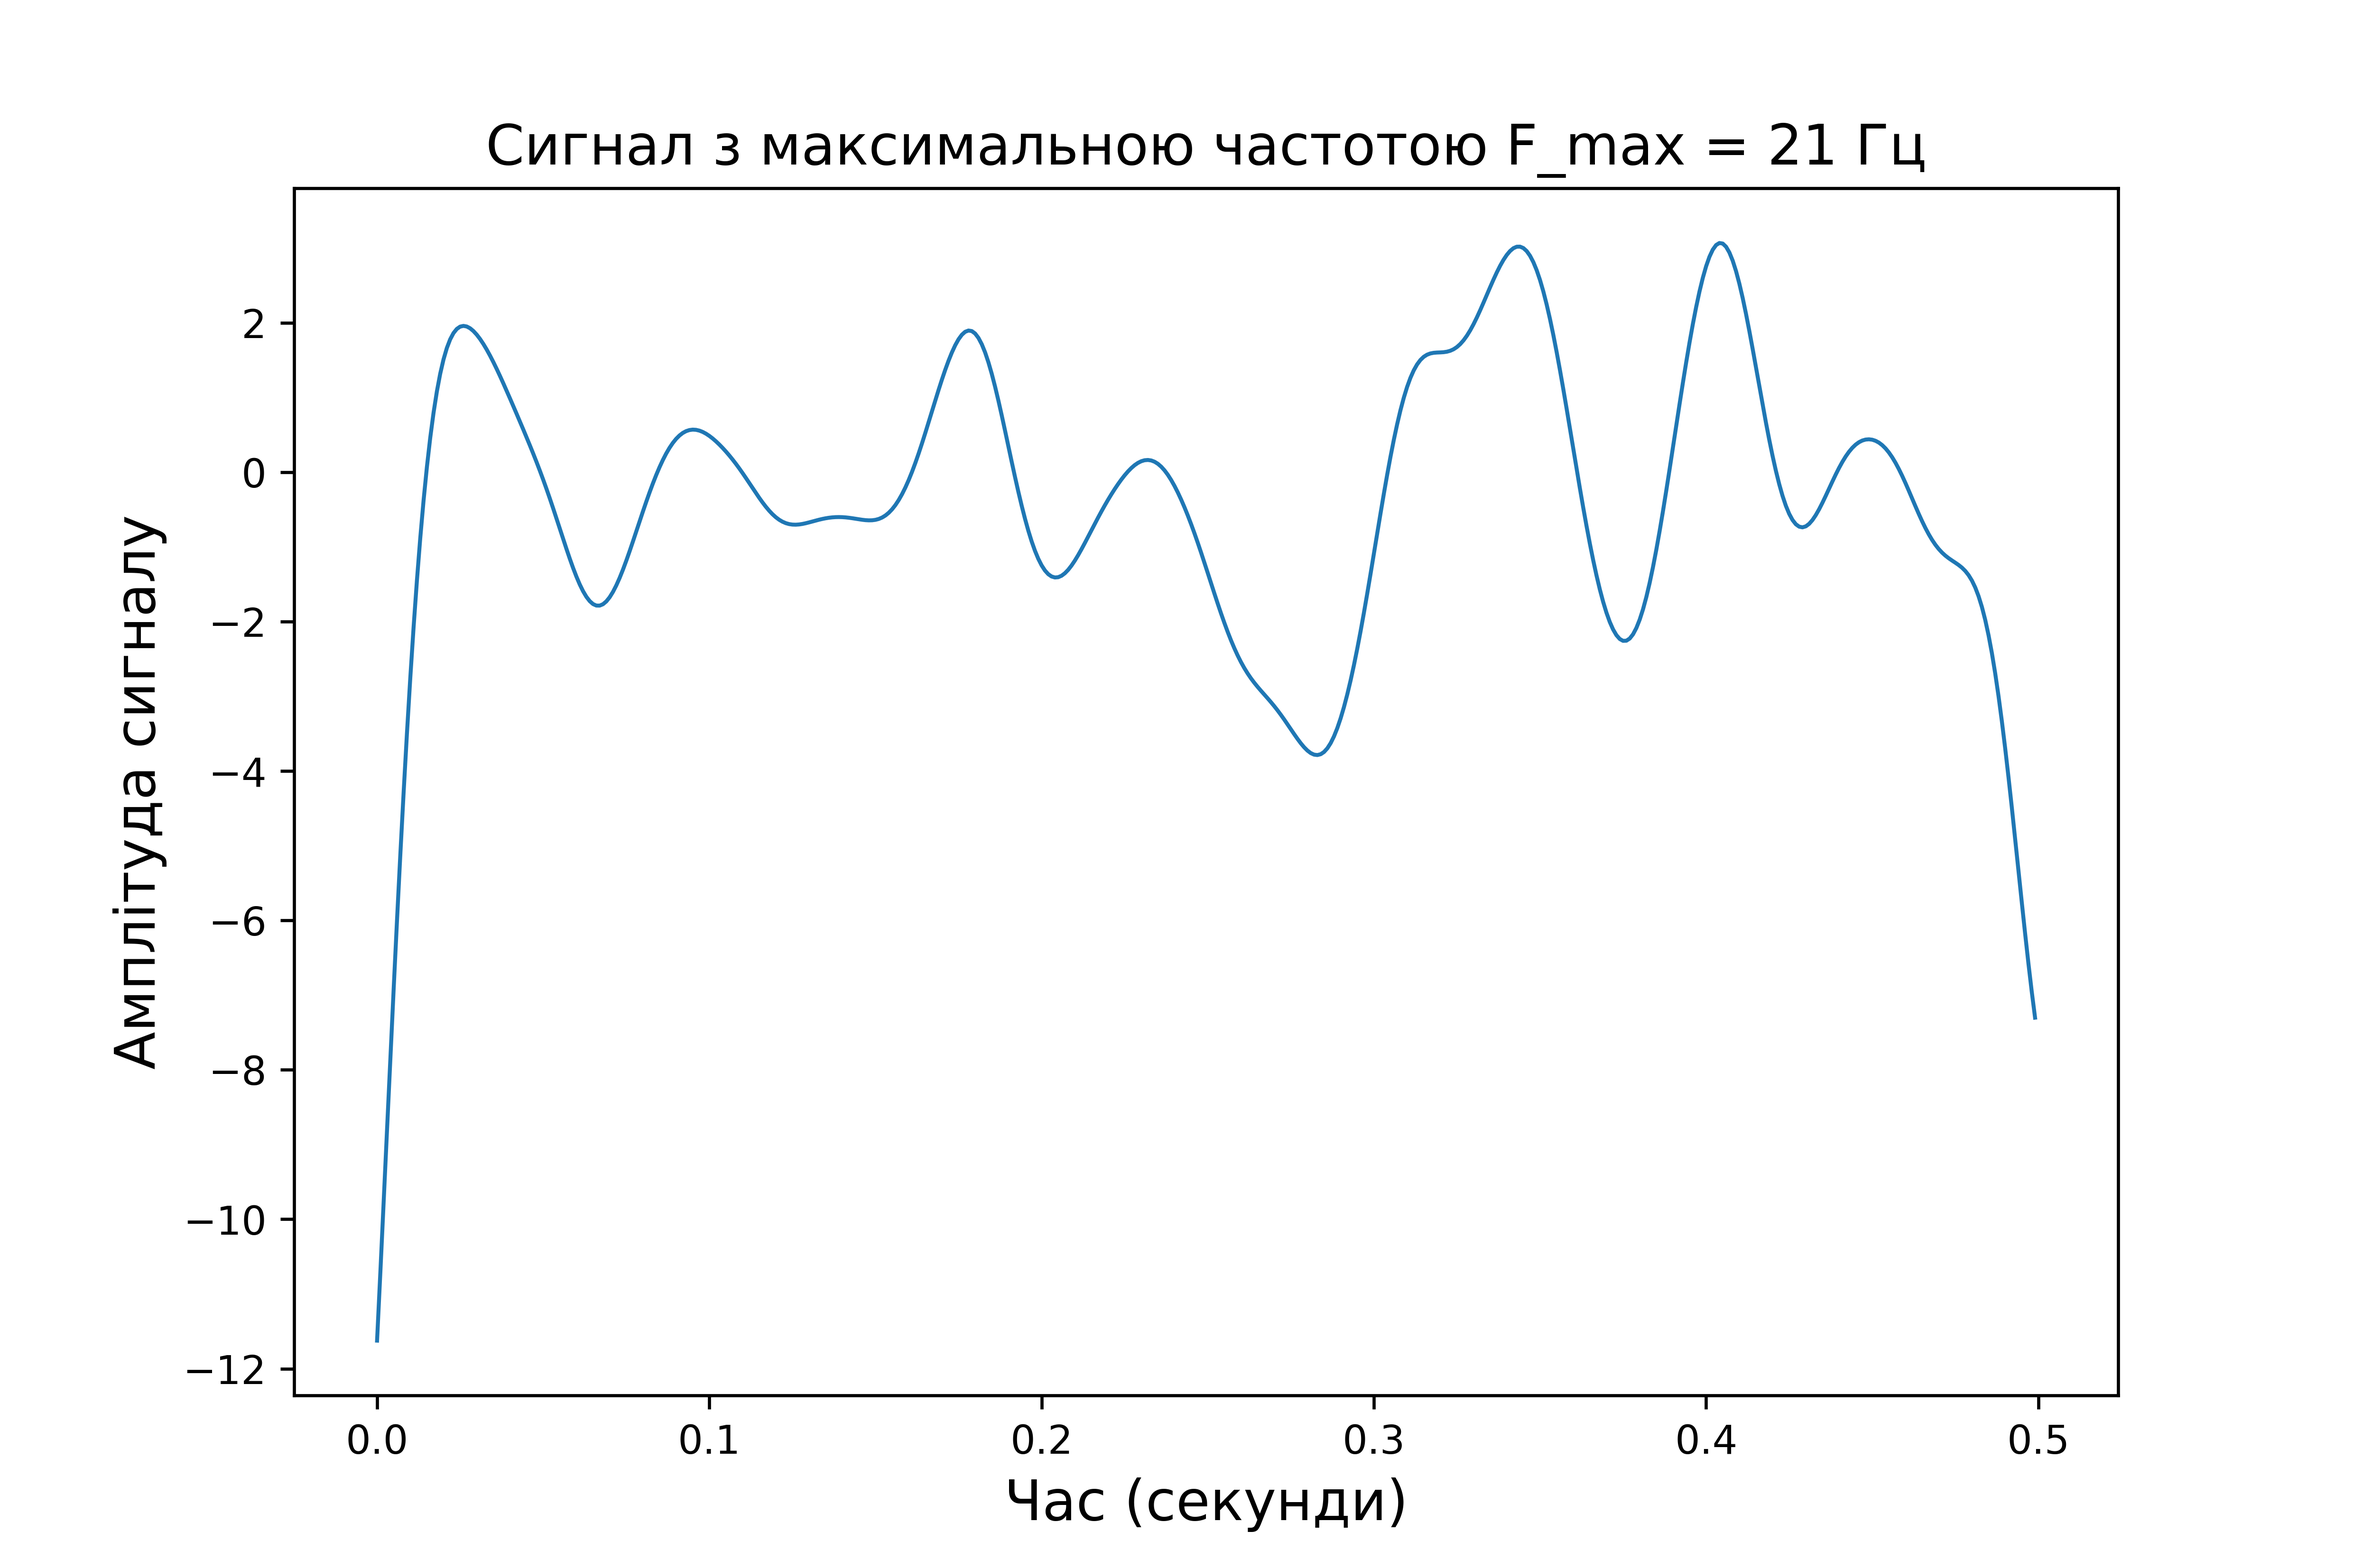
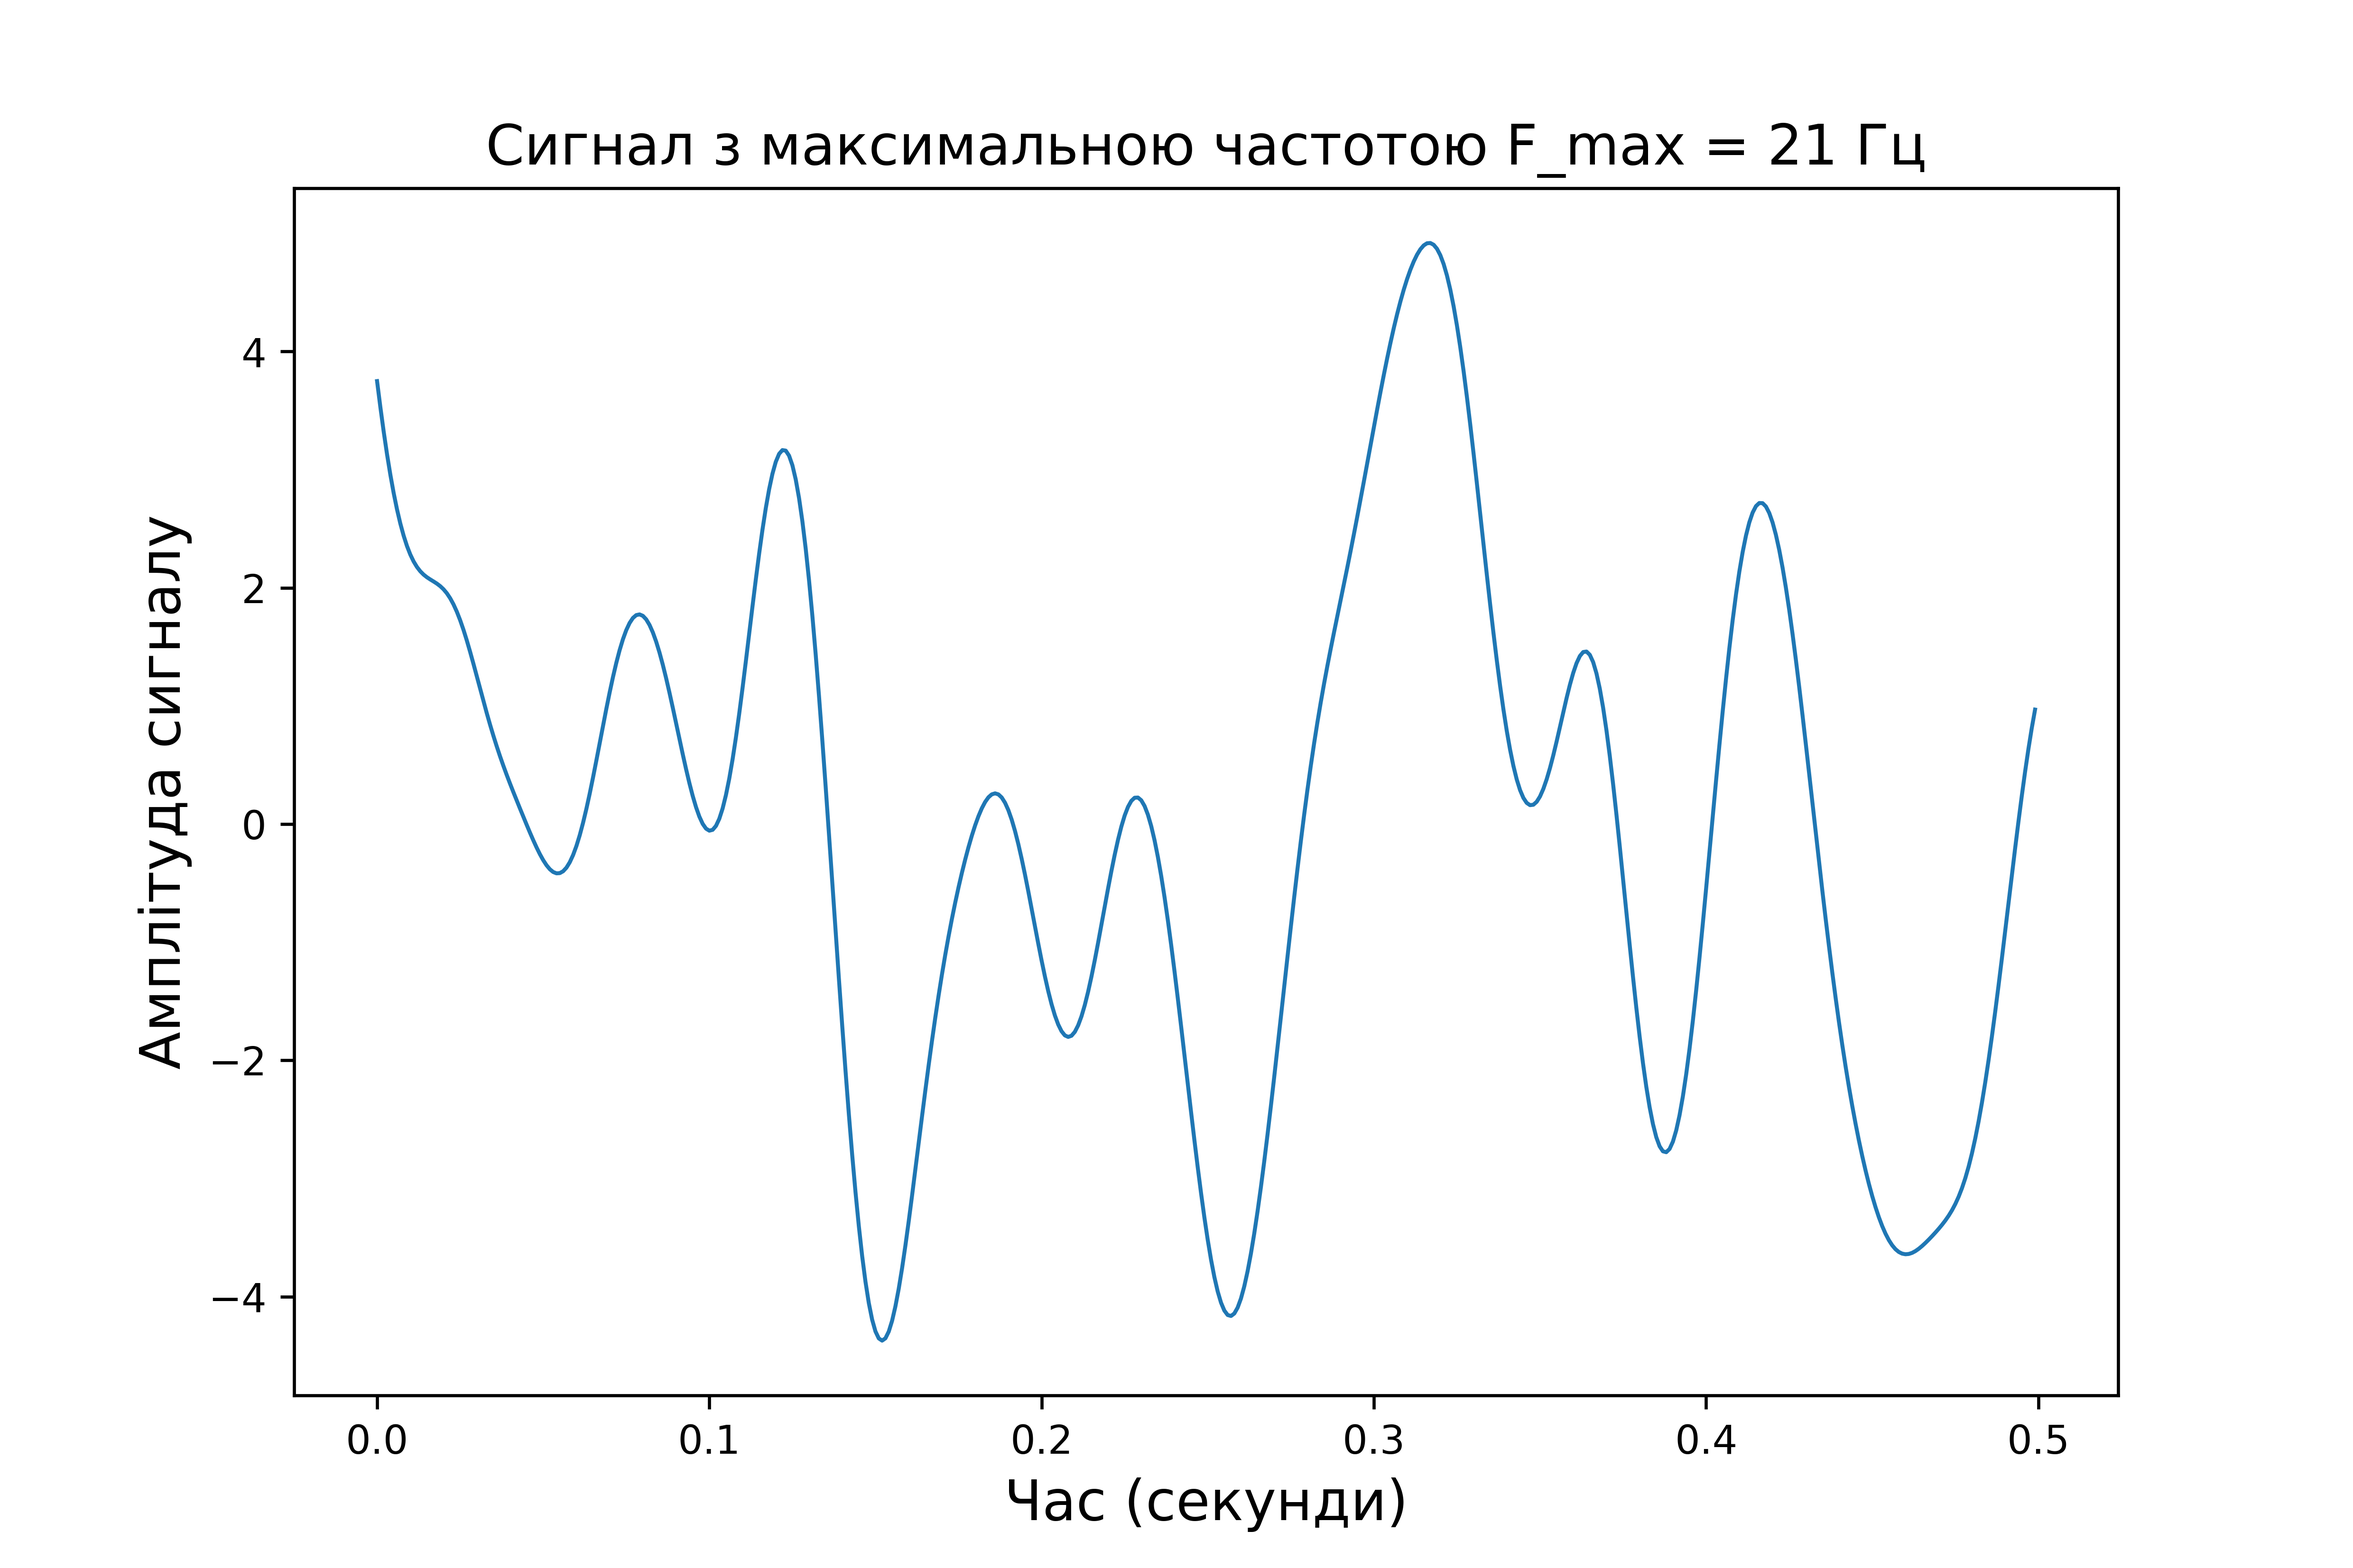
Signal processing, 3

diff --git a/SignalProcessing/SignalProcessing.py b/SignalProcessing/SignalProcessing.py
@@ -1,4 +1,4 @@
-# Практична робота 2; варіант 10
+# Практична робота 3; варіант 10
 import numpy
 import scipy
 import matplotlib.pyplot as plt
@@ -7,6 +7,7 @@ from scipy import signal, fft
 n = 500
 Fs = 1000
 F_max = 21
+F_filter = 28
 
 rand_signal = numpy.random.normal(0, 10, n)
 time_ox = numpy.arange(n) / Fs
@@ -32,3 +33,83 @@ ax.set_xlabel("Частота (Гц)", fontsize=14)
 ax.set_ylabel("Амплітуда сигналу", fontsize=14)
 plt.title("Спектр сигналу з максимальною частотою F_max = 21 Гц", fontsize=14)
 fig.savefig('./figures/' + 'fig2 (signal)' + '.png', dpi=600)
+
+discrete_signals = []
+discrete_spectrums = []
+w2 = F_filter/(Fs/2)
+discrete_signals_filter = []
+dispersion_differ = []
+sign_noise = []
+# Дискретизація сигналу
+for Dt in [2, 4, 8, 16]:
+    discrete_signal = numpy.zeros(n)
+    for i in range(0, round(n/Dt)):
+        discrete_signal[i * Dt] = filtration_signal[i * Dt]
+    discrete_signals += [list(discrete_signal)]
+# Розрахунок спектрy сигналів
+    discrete_spectr = scipy.fft.fft(discrete_signal)
+    discrete_mod_val = numpy.abs(scipy.fft.fftshift(discrete_spectr))
+    discrete_spectrums += [list(discrete_mod_val)]
+# Відновлення аналогового сигналу з дискретного
+    discrete_parameters = scipy.signal.butter(3, w2, 'low', output='sos')
+    discrete_filter = scipy.signal.sosfiltfilt(discrete_parameters, discrete_signal)
+    discrete_signals_filter += [list(discrete_filter)]
+# Дисперсія та співвідношення сигнал-шум
+    E1 = discrete_signals_filter - rand_signal
+    dispersion1 = numpy.var(rand_signal)
+    dispersion2 = numpy.var(E1)
+    dispersion_differ += [dispersion2]
+    sign_noise += [numpy.var(rand_signal)/numpy.var(E1)]
+
+# figure 3
+fig, ax = plt.subplots(2, 2, figsize=(21 / 2.54, 14 / 2.54))
+s = 0
+for i in range(0, 2):
+    for j in range(0, 2):
+        ax[i][j].plot(time_ox, discrete_signals[s], linewidth=1)
+        s += 1
+fig.supxlabel('Час (секунди)', fontsize=14)
+fig.supylabel('Амплітуда сигналу', fontsize=14)
+fig.suptitle('Сигнал з кроком дискретизації Dt = (2, 4, 8, 16)', fontsize=14)
+fig.savefig('./figures/' + 'Сигнал з кроком дискретизації Dt = (2, 4, 8, 16)' + '.png', dpi=600)
+
+# figure 4
+fig, ax = plt.subplots(2, 2, figsize=(21 / 2.54, 14 / 2.54))
+s4 = 0
+for i in range(0, 2):
+    for j in range(0, 2):
+        ax[i][j].plot(symmetry, discrete_spectrums[s4], linewidth=1)
+        s4 += 1
+fig.supxlabel('Частота (Гц)', fontsize=14)
+fig.supylabel('Амплітуда спектру', fontsize=14)
+fig.suptitle('Спектри сигналів з кроком дискретизації Dt = (2, 4, 8, 16)', fontsize=14)
+fig.savefig('./figures/' + 'Спектри сигналів з кроком дискретизації Dt = (2, 4, 8, 16)' + '.png', dpi=600)
+
+# figure 5
+fig, ax = plt.subplots(2, 2, figsize=(21 / 2.54, 14 / 2.54))
+s5 = 0
+for i in range(0, 2):
+    for j in range(0, 2):
+        ax[i][j].plot(time_ox, discrete_signals_filter[s5], linewidth=1)
+        s5 += 1
+fig.supxlabel('Частота (Гц)', fontsize=14)
+fig.supylabel('Амплітуда спектру', fontsize=14)
+fig.suptitle('Відновлені аналогові сигнали з кроком дискретизації Dt = (2, 4, 8, 16)', fontsize=14)
+fig.savefig('./figures/' + 'Відновлені аналогові сигнали з кроком дискретизації Dt = (2, 4, 8, 16)' + '.png', dpi=600)
+
+X = [2, 4, 8, 16]
+# figure 6
+fig, ax = plt.subplots(figsize=(21 / 2.54, 14 / 2.54))
+ax.plot(X, dispersion_differ, linewidth=1)
+ax.set_xlabel("Крок дискретизації", fontsize=14)
+ax.set_ylabel("Дисперсія", fontsize=14)
+plt.title("Сигнал з максимальною частотою F_max = 17", fontsize=14)
+fig.savefig("./figures/" + "Залежність дисперсії від кроку дискретизації" + ".png", dpi=600)
+
+# figure 7
+fig, ax = plt.subplots(figsize=(21 / 2.54, 14 / 2.54))
+ax.plot(X, sign_noise, linewidth=1)
+ax.set_xlabel("Крок дискретизації", fontsize=14)
+ax.set_ylabel("ССШ", fontsize=14)
+plt.title("Сигнал з максимальною частотою F_max = 17", fontsize=14)
+fig.savefig("./figures/" + "Залежність співвідношення сигнал-шум від кроку дискретизації" + ".png", dpi=600)
